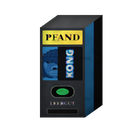
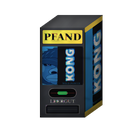
Deposit machine texture drawn to the body's proportions (front, side, back, flat top)

Changed region(s): [[0.3125, 0.125, 0.8125, 0.9375]]

diff --git a/tools/make_textures.py b/tools/make_textures.py
@@ -242,30 +242,58 @@ def tex_fridge():
 
 # ---------------------------------------------------------------- deposit machine atlas: 512 x 512
 # front x 0-256 (full height), side x 256-512 y 0-256, top x 256-512 y 256-512.
+# ---------------------------------------------------------------- deposit machine atlas: 1024 x 1024
+# Sized to the 1.0 x 1.9 x 0.8 m body so nothing is stretched:
+#   front  x 0-512,  full height (aspect 0.5, the box is 1.0 : 1.9)
+#   side   x 512-942, full height (aspect 0.42, the box is 0.8 : 1.9), also used for the back
+#   flat   x 960-1024 plain grey, used for top and bottom
+AUTOMAT_FRONT = (0, 0, 512, 1024)
+AUTOMAT_SIDE = (512, 0, 942, 1024)
+
+
 def tex_automat():
-    w = h = 512
+    w = h = 1024
     main, deep = mi.PALETTES["blue"]
-    img = Image.new("RGBA", (w, h), (40, 44, 52, 255))
+    body, edge = (52, 58, 70), (22, 26, 32)
+    img = Image.new("RGBA", (w, h), (64, 68, 78, 255))
     d = ImageDraw.Draw(img)
-    # front
-    d.rectangle([0, 0, 255, 511], fill=(46, 52, 62))
-    d.rectangle([14, 16, 241, 96], fill=(250, 214, 60))
-    mi.slab_text(d, (128, 56), "PFAND", 50, mi.BLACK, anchor="mm", max_w=210)
-    d.rectangle([14, 110, 241, 300], fill=mi.BLACK)
-    d.rectangle([14, 110, 100, 300], fill=main)
-    face = draw_half_face("blue").resize((120, int(120 * GH / GW)), Image.LANCZOS)
-    paste_clipped(img, face, (100 - 120, 205 - face.height // 2), [14, 110, 100, 300])
-    word = mi.fit(mi.metallic_text("KONG", main, deep).rotate(90, expand=True), 241 - 100 - 24, 176)
-    img.alpha_composite(word, (100 + (141 - word.width) // 2, 117))
-    d.rounded_rectangle([60, 330, 196, 400], radius=34, fill=(10, 10, 14), outline=(150, 154, 164), width=6)
-    d.ellipse([92, 346, 164, 384], fill=(30, 200, 90))
-    mi.slab_text(d, (128, 432), "LEERGUT", 26, (220, 224, 230), anchor="mm", max_w=220)
-    d.rectangle([40, 462, 216, 492], fill=(20, 22, 26), outline=(150, 154, 164), width=3)
-    # side
-    d.rectangle([256, 0, 511, 255], fill=main)
-    d.rectangle([384, 0, 511, 255], fill=mi.BLACK)
-    # top
-    d.rectangle([256, 256, 511, 511], fill=(70, 74, 82))
+
+    # ---- front
+    d.rectangle([0, 0, 511, 1023], fill=body)
+    d.rectangle([0, 0, 511, 1023], outline=edge, width=8)
+    d.rectangle([24, 24, 487, 190], fill=(250, 214, 60), outline=edge, width=6)           # PFAND sign
+    mi.slab_text(d, (256, 107), "PFAND", 110, mi.BLACK, anchor="mm", max_w=430)
+    d.rectangle([24, 214, 487, 654], fill=mi.BLACK, outline=edge, width=6)                # advert panel
+    d.rectangle([24, 214, 200, 654], fill=main)
+    face = draw_half_face("blue")
+    fh = 420
+    face = face.resize((int(fh * GW / GH), fh), Image.LANCZOS)
+    paste_clipped(img, face, (200 - face.width, 654 - fh - 4), [24, 214, 200, 654])
+    word = mi.fit(mi.metallic_text("KONG", main, deep).rotate(90, expand=True), 250, 400)
+    img.alpha_composite(word, (200 + (250 - word.width) // 2 + 18, 224))
+    mi.slab_text(d, (356, 636), "WILD POWER", 26, main, anchor="mm", max_w=280)
+    # scanner: dark slot with a green light and a laser line
+    d.rounded_rectangle([96, 690, 416, 800], radius=54, fill=(10, 10, 14), outline=(160, 164, 174), width=8)
+    d.rounded_rectangle([196, 726, 316, 764], radius=19, fill=(30, 200, 90))
+    d.line([(120, 745), (392, 745)], fill=(255, 70, 60), width=4)
+    mi.slab_text(d, (256, 840), "LEERGUT", 52, (226, 230, 236), anchor="mm", max_w=430)
+    # return tray with a flap
+    d.rectangle([64, 880, 448, 984], fill=(14, 16, 20), outline=(160, 164, 174), width=6)
+    d.rectangle([84, 900, 428, 964], fill=(30, 34, 42))
+    d.line([(84, 932), (428, 932)], fill=(80, 86, 98), width=4)
+
+    # ---- side (also the back)
+    d.rectangle([512, 0, 941, 1023], fill=main)
+    d.rectangle([512, 0, 941, 1023], outline=edge, width=8)
+    d.rectangle([700, 0, 941, 1023], fill=mi.BLACK)
+    long_word = mi.fit(mi.metallic_text("KONG", main, deep).rotate(90, expand=True), 220, 760)
+    img.alpha_composite(long_word, (700 + (241 - long_word.width) // 2, 120))
+    mi.slab_text(d, (820, 930), "WILD POWER", 34, main, anchor="mm", max_w=220)
+    d.rectangle([512, 0, 941, 60], fill=(250, 214, 60))
+    d.rectangle([512, 964, 941, 1023], fill=(250, 214, 60))
+
+    # ---- flat grey for top and bottom
+    d.rectangle([960, 0, 1023, 1023], fill=(74, 78, 88))
     return img
 
 
@@ -302,7 +330,7 @@ def icon_fridge():
 
 def icon_automat():
     tex = tex_automat()
-    return _box_icon(tex.crop((0, 0, 256, 512)), tex.crop((256, 0, 512, 256)), (70, 74, 82, 255), x0=160, x1=340)
+    return _box_icon(tex.crop(AUTOMAT_FRONT), tex.crop(AUTOMAT_SIDE), (74, 78, 88, 255), x0=160, x1=340)
 
 
 def icon_pyramid():

diff --git a/src/Models.cs b/src/Models.cs
@@ -265,10 +265,15 @@ namespace KongStrong
         public static Mesh FridgeDoor() => Box("kong_fridge_door", new Vector3(-FridgeWidth / 2, FridgeHeight / 2, DoorThickness / 2),
             new Vector3(FridgeWidth, FridgeHeight, DoorThickness), FridgeDoorUv, FridgeSide, FridgeSide, FridgeSide, FridgeTop, FridgeTop);
 
-        // deposit machine atlas: front x 0-0.5 full height, side x 0.5-1 top half, top x 0.5-1 bottom half
-        public static Mesh Automat() => Box("kong_automat", new Vector3(0f, 0.95f, 0f), new Vector3(1.0f, 1.9f, 0.8f),
-            new Rect(0f, 0f, 0.5f, 1f), new Rect(0.5f, 0.5f, 0.5f, 0.5f), new Rect(0.5f, 0.5f, 0.5f, 0.5f),
-            new Rect(0.5f, 0.5f, 0.5f, 0.5f), new Rect(0.5f, 0f, 0.5f, 0.5f), new Rect(0.5f, 0f, 0.5f, 0.5f));
+        // deposit machine atlas (1024 x 1024, see make_textures.py): front x 0-0.5, side and back x 0.5-0.92 (both full
+        // height, same aspect as the 1.0 x 1.9 x 0.8 m body), plain grey x 0.94-1 for top and bottom
+        public static Mesh Automat()
+        {
+            var front = new Rect(0f, 0f, 0.5f, 1f);
+            var side = new Rect(0.5f, 0f, 0.42f, 1f);
+            var flat = new Rect(0.96f, 0.3f, 0.03f, 0.3f);
+            return Box("kong_automat", new Vector3(0f, 0.95f, 0f), new Vector3(1.0f, 1.9f, 0.8f), front, side, side, side, flat, flat);
+        }
 
         /// <summary>Cans of one row of the pyramid (rows 0-3 have 4, 3, 2, 1 cans), 10 empties in total.</summary>
         public static Mesh PyramidRow(int row)
